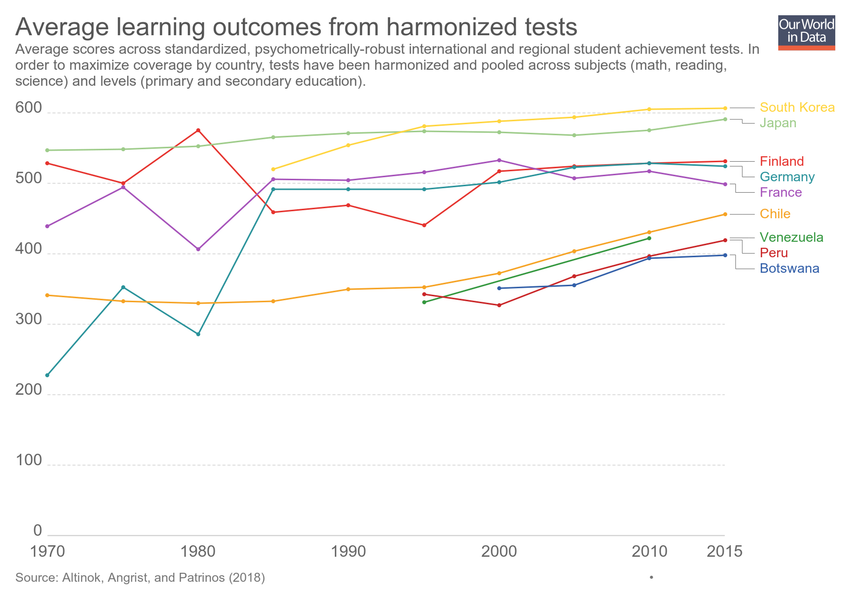
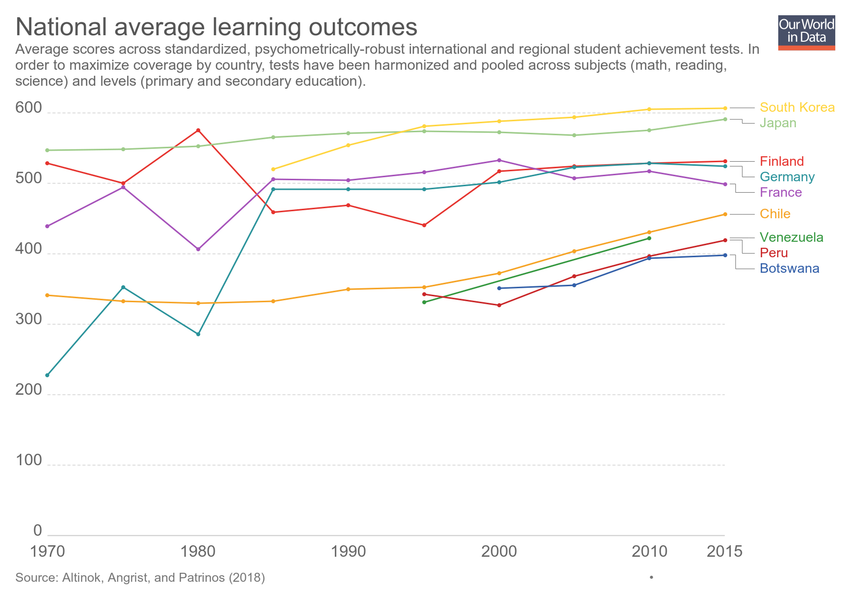
Updating chart average-harmonized-learning-outcome-scores

Changed region(s): [[0.0, 0.03, 0.6729, 0.09]]

diff --git a/grapher/average-harmonized-learning-outcome-scores.html b/grapher/average-harmonized-learning-outcome-scores.html
@@ -1,4 +1,4 @@
-<!doctype html><html><head><meta name="viewport" content="width=device-width, initial-scale=1" /><title>Average learning outcomes from harmonized tests - Our World in Data</title><meta name="description" content="Average scores across standardized, psychometrically-robust international and regional student achievement tests. In order to maximize coverage by country, tests have been harmonized and pooled across subjects (math, reading, science) and levels (primary and secondary education)." /><link rel="canonical" href="https://ourworldindata.org/grapher/average-harmonized-learning-outcome-scores" /><meta property="fb:app_id" content="1149943818390250" /><meta property="og:url" content="https://ourworldindata.org/grapher/average-harmonized-learning-outcome-scores" /><meta property="og:title" content="Average learning outcomes from harmonized tests" /><meta property="og:description" content="Average scores across standardized, psychometrically-robust international and regional student achievement tests. In order to maximize coverage by country, tests have been harmonized and pooled across subjects (math, reading, science) and levels (primary and secondary education)." /><meta property="og:image" content="https://ourworldindata.org/grapher/exports/average-harmonized-learning-outcome-scores.png?v=23" /><meta property="og:image:width" content="850" /><meta property="og:image:height" content="600" /><meta property="og:site_name" content="Our World in Data" /><meta name="twitter:card" content="summary_large_image" /><meta name="twitter:site" content="@OurWorldInData" /><meta name="twitter:creator" content="@OurWorldInData" /><meta name="twitter:title" content="Average learning outcomes from harmonized tests" /><meta name="twitter:description" content="Average scores across standardized, psychometrically-robust international and regional student achievement tests. In order to maximize coverage by country, tests have been harmonized and pooled across subjects (math, reading, science) and levels (primary and secondary education)." /><meta name="twitter:image" content="https://ourworldindata.org/grapher/exports/average-harmonized-learning-outcome-scores.png?v=23" /><style>
+<!doctype html><html><head><meta name="viewport" content="width=device-width, initial-scale=1" /><title>National average learning outcomes - Our World in Data</title><meta name="description" content="Average scores across standardized, psychometrically-robust international and regional student achievement tests. In order to maximize coverage by country, tests have been harmonized and pooled across subjects (math, reading, science) and levels (primary and secondary education)." /><link rel="canonical" href="https://ourworldindata.org/grapher/average-harmonized-learning-outcome-scores" /><meta property="fb:app_id" content="1149943818390250" /><meta property="og:url" content="https://ourworldindata.org/grapher/average-harmonized-learning-outcome-scores" /><meta property="og:title" content="National average learning outcomes" /><meta property="og:description" content="Average scores across standardized, psychometrically-robust international and regional student achievement tests. In order to maximize coverage by country, tests have been harmonized and pooled across subjects (math, reading, science) and levels (primary and secondary education)." /><meta property="og:image" content="https://ourworldindata.org/grapher/exports/average-harmonized-learning-outcome-scores.png?v=25" /><meta property="og:image:width" content="850" /><meta property="og:image:height" content="600" /><meta property="og:site_name" content="Our World in Data" /><meta name="twitter:card" content="summary_large_image" /><meta name="twitter:site" content="@OurWorldInData" /><meta name="twitter:creator" content="@OurWorldInData" /><meta name="twitter:title" content="National average learning outcomes" /><meta name="twitter:description" content="Average scores across standardized, psychometrically-robust international and regional student achievement tests. In order to maximize coverage by country, tests have been harmonized and pooled across subjects (math, reading, science) and levels (primary and secondary education)." /><meta name="twitter:image" content="https://ourworldindata.org/grapher/exports/average-harmonized-learning-outcome-scores.png?v=25" /><style>
         html, body {
             height: 100%;
             margin: 0;
@@ -20,8 +20,8 @@
         }
     </style><noscript><style>
                     figure { display: none !important; }
-                </style></noscript><link rel="stylesheet" href="https://ourworldindata.org/grapher/assets/commons.bundle.7bc7a3a90f15cac09df5.css" /><link rel="preload" href="/grapher/data/variables/97675.json?v=23" as="fetch" crossorigin /></head><body class="singleChart"><figure data-grapher-src="/grapher/average-harmonized-learning-outcome-scores"></figure><noscript id="fallback"><img src="/grapher/exports/average-harmonized-learning-outcome-scores.svg" /><p>Interactive visualization requires JavaScript</p></noscript><script src="https://cdn.polyfill.io/v2/polyfill.min.js?features=es6,fetch"></script><script src="https://ourworldindata.org/grapher/assets/commons.bundle.7bc7a3a90f15cac09df5.js"></script><script src="https://ourworldindata.org/grapher/assets/charts.bundle.7bc7a3a90f15cac09df5.js"></script><script>
-        var jsonConfig = {"id":2879,"map":{"projection":"World","targetYear":2010,"variableId":97675,"equalSizeBins":true,"baseColorScheme":"RdPu","isManualBuckets":true,"colorSchemeLabels":["","","",null,null,null,null],"colorSchemeValues":[400,450,500,550,600,650,700],"customNumericColors":[null,null,null],"customCategoryColors":{},"customCategoryLabels":{},"customHiddenCategories":{}},"tab":"chart","slug":"average-harmonized-learning-outcome-scores","type":"LineChart","title":"Average learning outcomes from harmonized tests","xAxis":{"scaleType":"linear"},"yAxis":{"min":0,"scaleType":"linear"},"version":23,"subtitle":"Average scores across standardized, psychometrically-robust international and regional student achievement tests. In order to maximize coverage by country, tests have been harmonized and pooled across subjects (math, reading, science) and levels (primary and secondary education).","hasMapTab":true,"stackMode":"absolute","dimensions":[{"display":{"shortUnit":""},"property":"y","variableId":97675}],"hasChartTab":true,"isPublished":true,"selectedData":[{"index":0,"entityId":155},{"index":0,"entityId":3},{"index":0,"entityId":6},{"index":0,"entityId":172},{"index":0,"entityId":14},{"index":0,"entityId":127},{"index":0,"entityId":238},{"index":0,"entityId":97},{"index":0,"entityId":36}],"addCountryMode":"add-country"};
+                </style></noscript><link rel="stylesheet" href="https://ourworldindata.org/grapher/assets/commons.bundle.7bc7a3a90f15cac09df5.css" /><link rel="preload" href="/grapher/data/variables/97675.json?v=25" as="fetch" crossorigin /></head><body class="singleChart"><figure data-grapher-src="/grapher/average-harmonized-learning-outcome-scores"></figure><noscript id="fallback"><img src="/grapher/exports/average-harmonized-learning-outcome-scores.svg" /><p>Interactive visualization requires JavaScript</p></noscript><script src="https://cdn.polyfill.io/v2/polyfill.min.js?features=es6,fetch"></script><script src="https://ourworldindata.org/grapher/assets/commons.bundle.7bc7a3a90f15cac09df5.js"></script><script src="https://ourworldindata.org/grapher/assets/charts.bundle.7bc7a3a90f15cac09df5.js"></script><script>
+        var jsonConfig = {"id":2879,"map":{"projection":"World","targetYear":2010,"variableId":97675,"equalSizeBins":true,"baseColorScheme":"RdPu","isManualBuckets":true,"colorSchemeLabels":["","","",null,null,null,null],"colorSchemeValues":[400,450,500,550,600,650,700],"customNumericColors":[null,null,null],"customCategoryColors":{},"customCategoryLabels":{},"customHiddenCategories":{}},"tab":"chart","slug":"average-harmonized-learning-outcome-scores","type":"LineChart","title":"National average learning outcomes","xAxis":{"scaleType":"linear"},"yAxis":{"min":0,"scaleType":"linear"},"version":25,"subtitle":"Average scores across standardized, psychometrically-robust international and regional student achievement tests. In order to maximize coverage by country, tests have been harmonized and pooled across subjects (math, reading, science) and levels (primary and secondary education).","hasMapTab":true,"stackMode":"absolute","dimensions":[{"display":{"shortUnit":""},"property":"y","variableId":97675}],"hasChartTab":true,"isPublished":true,"selectedData":[{"index":0,"entityId":155},{"index":0,"entityId":3},{"index":0,"entityId":6},{"index":0,"entityId":172},{"index":0,"entityId":14},{"index":0,"entityId":127},{"index":0,"entityId":238},{"index":0,"entityId":97},{"index":0,"entityId":36}],"addCountryMode":"add-country"};
         var figure = document.getElementsByTagName("figure")[0];
         try {
             window.App = {};
